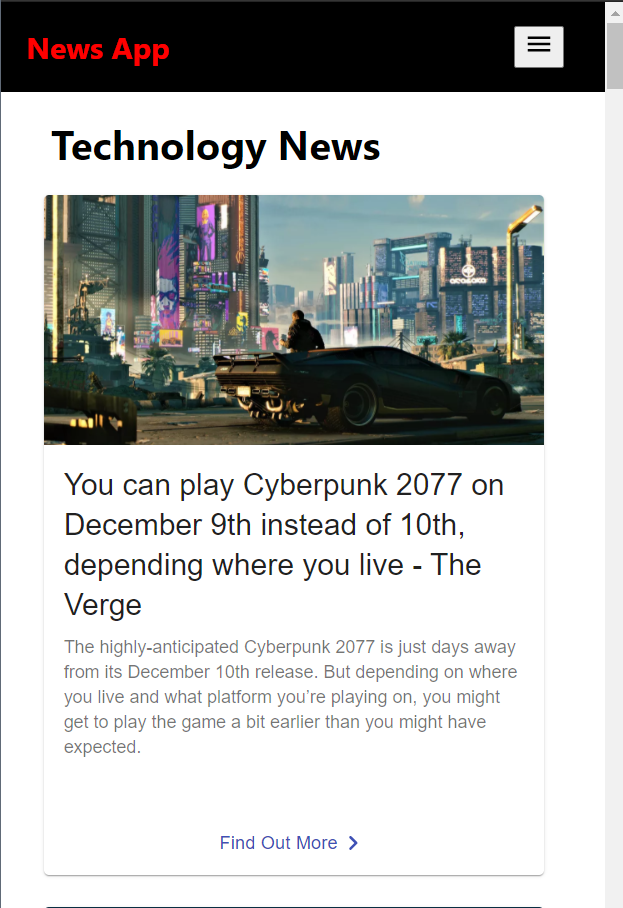
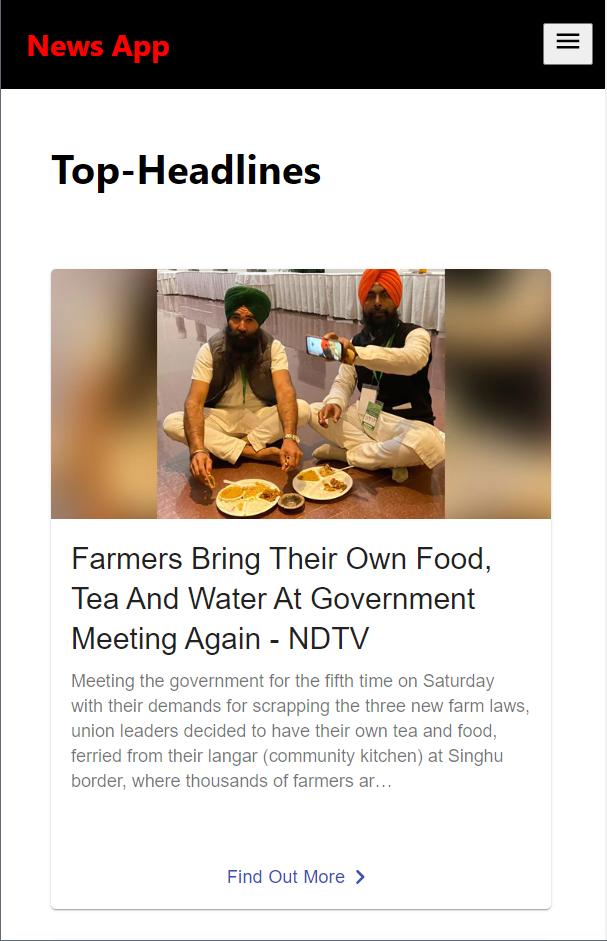
fixed UI issues

diff --git a/src/index.css b/src/index.css
@@ -5,9 +5,48 @@ body {
     sans-serif;
   -webkit-font-smoothing: antialiased;
   -moz-osx-font-smoothing: grayscale;
+  width: 100vw;
+  overflow-x: hidden;
 }
 
 code {
   font-family: source-code-pro, Menlo, Monaco, Consolas, 'Courier New',
     monospace;
+}
+
+/* navbar styles */
+nav{
+  background-color: black;
+  color: white;
+  display: grid;
+  grid-template-columns : 2fr 1fr;
+  align-items: center;
+  padding: 0px 20px;
+}
+.logo{
+  color: red;
+}
+a{
+  text-decoration: none;
+  color: white;
+  cursor: pointer;
+  margin-right: 10px;
+}
+.activeLink{
+  color: yellow;
+  border-bottom: 2px solid red;
+}
+
+/* news/headlines styles */
+.main-page{
+  width: 100%;
+}
+.page__name{
+  padding: 20px 40px;
+}
+.news-outputs{
+  display: grid;
+  grid-template-columns: repeat(auto-fit, minmax(300px, 1fr));
+  margin: 40px;
+  gap: 25px;
 }

diff --git a/src/components/Navbar.js b/src/components/Navbar.js
@@ -1,7 +1,6 @@
 import React, { useContext, useState, useEffect } from 'react';
 import MenuIcon from '@material-ui/icons/Menu';
 import MenuOpenIcon from '@material-ui/icons/MenuOpen';
-import './Navbar.css';
 import {NavLink} from 'react-router-dom';
 import { Category } from './ContextPage';
 
@@ -49,13 +48,13 @@ const Navbar = () => {
       <nav>
         <h1 className="logo">News App</h1>
         {isMobile ? (<MobileList style={{
-              width: '80%',
+              width: '100%',
               display: 'flex',
               flexDirection: 'column',
               justifyContent: 'center',
               alignItems: 'center',
               marginLeft: '85%',
-              marginBottom: '13px',
+              marginBottom: '13px'
         }} />
         ) :(
           <List style={{

diff --git a/src/components/Box.js b/src/components/Box.js
@@ -53,7 +53,7 @@ const useStyles = makeStyles((theme)=>({
         </CardContent>
       </CardActionArea>
       <CardActions>
-      <Button color={'primary'} fullWidth className={classes.cta} href={props.url} target="_blank">
+      <Button color={'primary'} fullWidth className={classes.cta} href={props.url} target="_blank" rel="noreferrer">
           Find Out More <Mat.ChevronRightRounded />
         </Button>
       </CardActions>

diff --git a/src/components/NavItems/Headlines.js b/src/components/NavItems/Headlines.js
@@ -1,11 +1,9 @@
 import React, { useContext} from 'react';
-import './Headlines.css';
 import Box from '../Box'
 import {Data} from '../ContextPage'
-import '../Box.css'
 
 const Headlines = () => {
-    const [state,setState] = useContext(Data);
+    const [state] = useContext(Data);
     return (
         <div className="main-page">
             <h1 className="page__name">Top-Headlines</h1>

diff --git a/src/components/NavItems/Entertainment.js b/src/components/NavItems/Entertainment.js
@@ -1,11 +1,9 @@
 import React, { useContext } from 'react';
 import { RealData } from '../ContextPage';
 import Box from '../Box'
-import './Headlines.css'
-import '../Box.css'
 
 function Entertainment() {
-    const [data,setData]=useContext(RealData);
+    const [data]=useContext(RealData);
     return (
        <> 
        <h1 className="page__name">Entertainment News</h1>

diff --git a/src/components/NavItems/Business.js b/src/components/NavItems/Business.js
@@ -1,11 +1,9 @@
 import React, { useContext } from 'react';
 import { RealData } from '../ContextPage';
 import Box from '../Box'
-import './Headlines.css'
-import '../Box.css'
 
 const Business = () => {
-    const [data,setData]=useContext(RealData);
+    const [data]=useContext(RealData);
     return (
        <> 
        <h1 className="page__name">Business News</h1>

diff --git a/src/components/NavItems/Science.js b/src/components/NavItems/Science.js
@@ -1,11 +1,9 @@
 import React, { useContext } from 'react';
 import {RealData } from '../ContextPage';
 import Box from '../Box'
-import './Headlines.css'
-import '../Box.css'
 
 function Science() {
-    const [data,setData]=useContext(RealData);
+    const [data]=useContext(RealData);
     return (
        <> 
        <h1 className="page__name">Science News</h1>

diff --git a/src/components/NavItems/Technology.js b/src/components/NavItems/Technology.js
@@ -1,11 +1,9 @@
 import React, { useContext } from 'react';
 import { RealData } from '../ContextPage';
 import Box from '../Box'
-import './Headlines.css'
-import '../Box.css'
 
 function Technology() {
-    const [data,setData]=useContext(RealData);
+    const [data] = useContext(RealData);
 
     return (
        <> 

diff --git a/src/components/NavItems/Sports.js b/src/components/NavItems/Sports.js
@@ -1,11 +1,9 @@
 import React, { useContext } from 'react';
 import { RealData } from '../ContextPage';
 import Box from '../Box'
-import './Headlines.css'
-import '../Box.css'
 
 function Sports() {
-    const [data,setData]=useContext(RealData);
+    const [data] = useContext(RealData);
 
     return (
        <> 

diff --git a/src/components/NavItems/Health.js b/src/components/NavItems/Health.js
@@ -1,11 +1,9 @@
 import React, { useContext } from 'react';
 import { RealData } from '../ContextPage';
 import Box from '../Box'
-import './Headlines.css'
-import '../Box.css'
 
 function Health() {
-    const [data,setData]=useContext(RealData);
+    const [data]=useContext(RealData);
 
 
     return (

diff --git a/README.md b/README.md
@@ -1,6 +1,6 @@
 # News App 📰
 
-News App is a responsive [React](http://facebook.github.io/react/index.html) app that utilises React Router [React Router](https://reactrouter.com/) to make this app a Single-Page Application(SPA), loading data via [News API](https://newsapi.org/).
+News App is a responsive [React](http://facebook.github.io/react/index.html) app that utilises [React Router](https://reactrouter.com/) to make this app a Single-Page Application(SPA), loading data via [News API](https://newsapi.org/).
 
 ![](/screenshot.png)
 
@@ -21,7 +21,7 @@ Key tools used in this React project are:
 
 If you would like to download the code and try it for yourself:
 
-1. Clone the repo: `https://github.com/traptrick/news-app.git`
+1. Clone the repo: `git clone https://github.com/traptrick/news-app.git`
 2. `cd news-app`
 2. Install packages: `npm install`
 3. Launch: `npm start`
